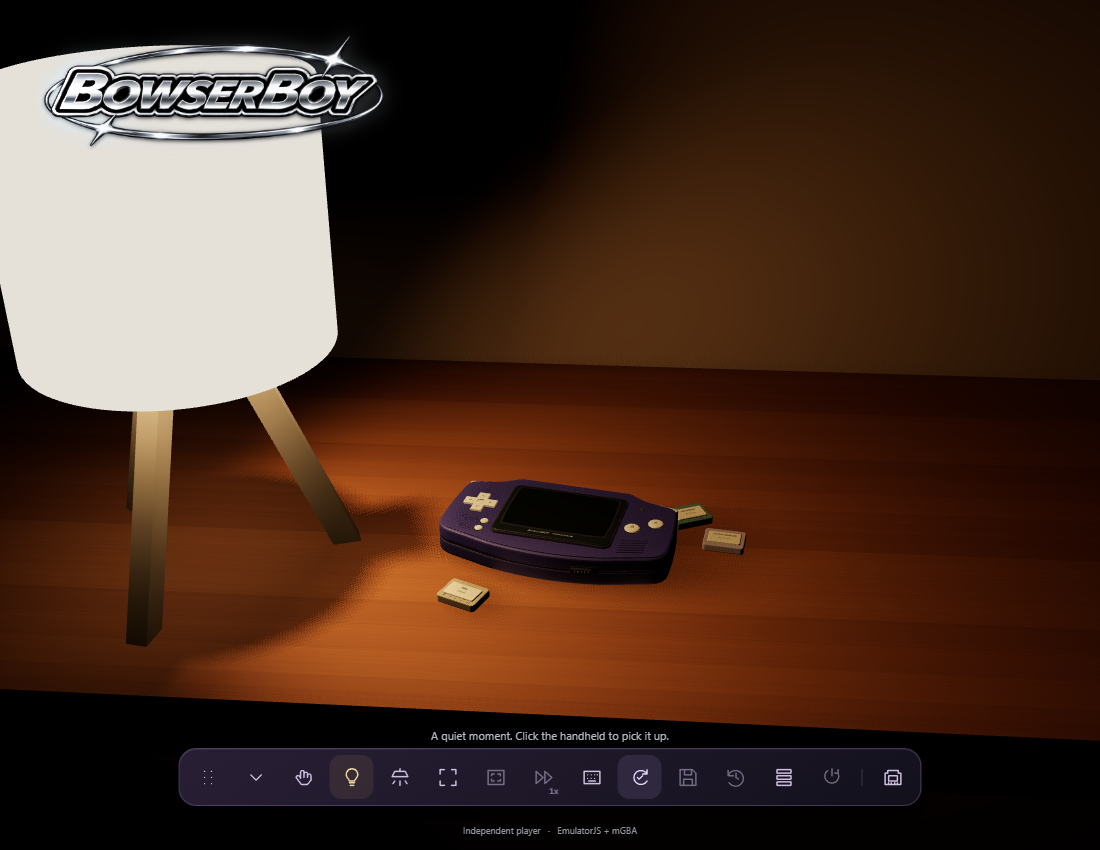
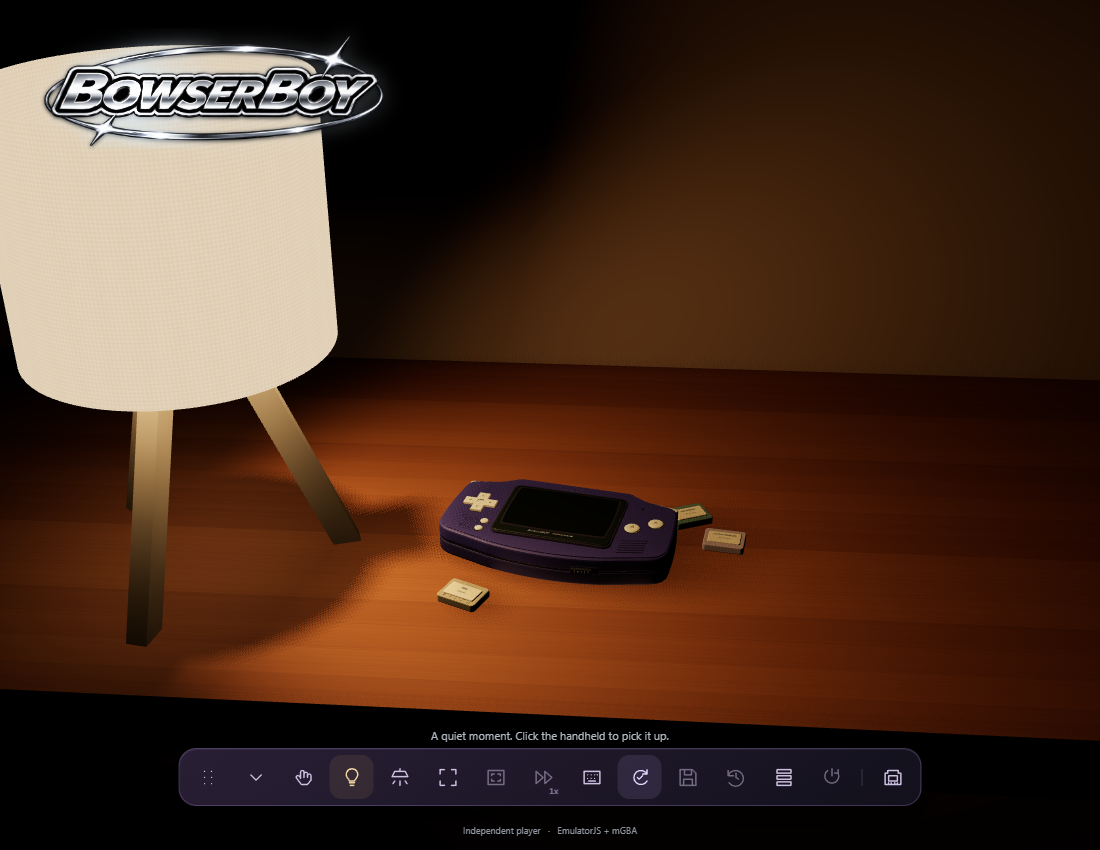
Warm woven lamp, night-safe green LED and current showcase
Refresh all eleven README GIFs and companion stills, add genuine LCD-only reflections, and isolate browser checks across nineteen shards without reducing resolution or coverage.

Copilot-Session: 8e7d69ac-78f7-4310-8b8d-14bf8681a509

Changed region(s): [[0.0, 0.0306, 0.3091, 0.4894]]

diff --git a/src/lighting.js b/src/lighting.js
@@ -50,11 +50,24 @@ export function createDeskLamp() {
   }
   mesh('Lamp shade support', new THREE.CylinderGeometry(.022, .022, .018, 24), trim,
     new THREE.Vector3(0, .162, 0));
+  const fabric = canvasTexture(1024, 256, (context, width, height) => {
+    const image = context.createImageData(width, height);
+    for (let y = 0; y < height; y++) for (let x = 0; x < width; x++) {
+      const warp = Math.cos(x * Math.PI / 2);
+      const weft = Math.cos(y * Math.PI / 2);
+      const fiber = Math.sin(x * Math.PI / 16 + Math.sin(y * Math.PI / 8) * .35);
+      const value = Math.round(237 + 6 * warp + 6 * weft + 2 * warp * weft + fiber);
+      const offset = (y * width + x) * 4;
+      image.data[offset] = image.data[offset + 1] = image.data[offset + 2] = value;
+      image.data[offset + 3] = 255;
+    }
+    context.putImageData(image, 0, 0);
+  });
   const shade = mesh('Clean white drum shade', new THREE.CylinderGeometry(.09, .09, .15, 96, 1, true),
-    new THREE.MeshStandardMaterial({ color: '#fffefa', roughness: .95,
-      emissive: '#fff0d6', emissiveIntensity: 60, side: THREE.DoubleSide }),
+    new THREE.MeshStandardMaterial({ color: '#fffefa', map: fabric, roughness: .95,
+      emissive: '#ffd6a8', emissiveMap: fabric, emissiveIntensity: 60, side: THREE.DoubleSide }),
     new THREE.Vector3(0, .225, 0));
-  // Keep the clean fabric luminous without the old brown albedo/emission speckles.
+  // Carry the neutral weave through emitted light instead of washing it out when lit.
   shade.castShadow = false;
   for (const y of [.15, .30]) {
     const rim = mesh('White shade rim', new THREE.TorusGeometry(.0895, .0005, 8, 96), shade.material,
@@ -63,7 +76,7 @@ export function createDeskLamp() {
     rim.castShadow = false;
   }
   const diffuser = mesh('Warm lamp bulb', new THREE.SphereGeometry(.018, 20, 16),
-    new THREE.MeshStandardMaterial({ color: '#fff8ec', emissive: '#fff0d6', emissiveIntensity: 80 }),
+    new THREE.MeshStandardMaterial({ color: '#fff8ec', emissive: '#ffd6a8', emissiveIntensity: 80 }),
     new THREE.Vector3(0, .215, 0));
   diffuser.castShadow = false;
   const light = new THREE.SpotLight('#ffca8a', 12 / METERS_PER_UNIT ** 2, 0, Math.PI / 3, .65, 2);

diff --git a/src/scene.js b/src/scene.js
@@ -293,9 +293,9 @@ export class HandheldScene {
   }
 
   setPower(running) {
-    this.model.led.material.color.set(running ? '#bce76f' : '#495537');
+    this.model.led.material.color.set(running ? '#186f32' : '#24382b');
     this.model.led.material.emissive.set(running ? '#00b800' : '#000000');
-    this.model.led.material.emissiveIntensity = running ? 80 : 0;
+    this.model.led.material.emissiveIntensity = running ? 80 * .018 / this.renderer.toneMappingExposure : 0;
     const power = this.model.controls.get('power').mesh;
     const x = running ? .1 : -.1;
     if (power.position.x !== x) this.changed = true;
@@ -408,6 +408,10 @@ export class HandheldScene {
       this.renderer.toneMappingExposure, exposure, 4, delta);
     const adapting = Math.abs(this.renderer.toneMappingExposure - exposure) > .00001;
     if (!adapting) this.renderer.toneMappingExposure = exposure;
+    // Keep dark-room exposure adaptation from bleaching the green indicator.
+    if (this.model.led.material.emissiveIntensity > 0) {
+      this.model.led.material.emissiveIntensity = 80 * .018 / this.renderer.toneMappingExposure;
+    }
     if (this.cartridgeMotion) {
       const fraction = THREE.MathUtils.clamp((cartridgeElapsed - 850) / 1350, 0, 1);
       const ease = fraction * fraction * (3 - 2 * fraction);

diff --git a/src/handheld.js b/src/handheld.js
@@ -598,8 +598,8 @@ export function createHandheld() {
     button.add(anchor);
     control(id, button, 1.3, .27, anchor);
   }
-  const led = add(root, 'Power light', cylinder(.09, .04),
-    new THREE.MeshStandardMaterial({ color: '#495537', emissive: '#000000', roughness: .25 }), 2.85, 1.43, .64);
+  const led = add(root, 'Power light', cylinder(.055, .04),
+    new THREE.MeshStandardMaterial({ color: '#24382b', emissive: '#000000', roughness: .55 }), 2.85, 1.43, .64);
   for (const slot of speakerSlots) {
     const floor = add(root, 'Recessed speaker grille',
       new THREE.ShapeGeometry(roundedShape(slot.width, slot.height, .03)), dark, slot.x, slot.y, .581);

diff --git a/README.md b/README.md
@@ -29,105 +29,111 @@
 
 ### One table. More to come.
 
-![Current BowserBOY table with a clean white tripod lamp, chrome website branding and movable tools](docs/images/readme-table.png?v=storsegel-20261106)
+![Current BowserBOY table with a warm woven-shade tripod lamp, chrome website branding and movable tools](docs/images/readme-table.png?v=woven-20261106)
 
 *The BowserBOY tabletop, featuring BowserBOYADVANCED.*
 
 ### Pick it up. Turn it over.
 
-![Pick up the handheld, inspect it with the animated purple console logo, and return to the chrome-branded table](docs/images/pickup-inspect.gif?v=storsegel-20261106)
+![Pick up the handheld, inspect it with the animated purple console logo, and return to the chrome-branded table](docs/images/pickup-inspect.gif?v=woven-20261106)
 
 *Soft engraved A/B letters. Metallic-chroma bezel. Purple console branding with orbiting stars while you inspect.*
 
 ### Purple belongs to the console.
 
-![Rear inspection with deeper purple console engraving and its animated purple inspection header](docs/images/readme-back.png?v=storsegel-20261106)
+![Rear inspection with deeper purple console engraving and its animated purple inspection header](docs/images/readme-back.png?v=woven-20261106)
 
 *Purple console identity. Larger lettering. Deeper engraving.*
 
 ### Press. Rock. Release.
 
-![Actual keyboard presses move A and B and rock the diagonal D-pad during play](docs/images/button-feedback.gif?v=storsegel-20261106)
+![Actual keyboard presses move A and B and rock the diagonal D-pad during play](docs/images/button-feedback.gif?v=woven-20261106)
 
 *Softer recessed A/B letters. Deeper presses. Rocking D-pad. Snappier return.*
 
 ### A closer look.
 
-![Ordinary play zoom moves from the fitted 50 percent view into 100 percent and back without fullscreen](docs/images/play-zoom.gif?v=storsegel-20261106)
+![Ordinary play zoom moves from the fitted 50 percent view into 100 percent and back without fullscreen](docs/images/play-zoom.gif?v=woven-20261106)
 
 *Same comfortable view at 50%. Move closer up to 100%. No fullscreen needed.*
 
 ### A little faster. Just while you hold.
 
-![Hold Space for native fast-forward, then release it to return to normal speed](docs/images/hold-space.gif?v=storsegel-20261106)
+![Hold Space for native fast-forward, then release it to return to normal speed](docs/images/hold-space.gif?v=woven-20261106)
 
 *Hold **Space** for 2x. Let go for 1x.*
 
 ### A clearer little message.
 
-![Current frosted power-on notice overlays the fitted handheld, with the play-mode header logo hidden](docs/images/readme-notice.png?v=storsegel-20261106)
+![Current frosted power-on notice overlays the fitted handheld, with the play-mode header logo hidden](docs/images/readme-notice.png?v=woven-20261106)
 
 *Frosted overlays. No shrinking or shifting the handheld. No header logo during play.*
 
 ### Power where it belongs.
 
-![The handheld tilted through Inspect controls to reveal its ribbed underside power slider](docs/images/readme-underside.png?v=storsegel-20261106)
+![The handheld tilted through Inspect controls to reveal its ribbed underside power slider](docs/images/readme-underside.png?v=woven-20261106)
 
 *Underside slider. Clear front face. Real power-off and cold boot.*
 
 ### Power on. Make some waves.
 
-![Current LCD startup with the purple console wordmark, complete sparkles and a spacious glowing orbit](docs/images/power-on.gif?v=storsegel-20261106)
+![Current LCD startup with the purple console wordmark, complete sparkles and a spacious glowing orbit](docs/images/power-on.gif?v=woven-20261106)
 
 *Purple console startup. Waving lettering. An 8-bit-style chime. Power remembered between visits.*
 
 ### Slot it in.
 
-![A selected local cartridge physically slides into the handheld during loading](docs/images/cartridge.gif?v=storsegel-20261106)
+![A selected local cartridge physically slides into the handheld during loading](docs/images/cartridge.gif?v=woven-20261106)
 
 *Bring your own local ROMs. Game files stay on your device.*
 
 ### Your room, your light.
 
-![The clean STORSEGEL-style white shade and ash tripod, independent room lights, and LCD-only darkness](docs/images/cozy-lights.gif?v=storsegel-20261106)
+![The warm STORSEGEL-style woven white shade and ash tripod, independent room lights, and LCD-only darkness](docs/images/cozy-lights.gif?v=woven-20261106)
 
 *A clean STORSEGEL-style shade. Warm ash legs. No visible cable. Cozy lamplight, room lights, or just the LCD.*
+
+### Wave the light.
+
+![Tilt the powered console in complete room darkness and watch the actual LCD's colored light move across the desk](docs/images/lcd-reflections.gif?v=green-led-20261106)
+
+*Lamp off. Room lights off. Just the green power LED, the game screen, and its moving pool of light.*
 
 *Audio-paced timing and a larger native reserve for steadier playback. [Audio notes and limits](docs/GUIDE.md).*
 
 ### Nine ways to glow.
 
-![Current sound and Screen shader settings with CRT Geom selected](docs/images/crt-presets.png?v=storsegel-20261106)
+![Current sound and Screen shader settings with CRT Geom selected](docs/images/crt-presets.png?v=woven-20261106)
 
 *Nine native CRT presets. CRT Geom by default. Unfiltered, too.*
 
 ### Just the game.
 
-![Actual game-screen fullscreen with the metallic-chroma bezel wordmark, dark margins and independent zoom](docs/images/screen-fullscreen.gif?v=storsegel-20261106)
+![Actual game-screen fullscreen with the metallic-chroma bezel wordmark, dark margins and independent zoom](docs/images/screen-fullscreen.gif?v=woven-20261106)
 
 *Full 3:2 picture. Dark margins. Adjustable 50-100% zoom.*
 
 ### Everything within reach.
 
-![Purple icon dock with its drag grip, collapse arrow and separate desk and LCD fullscreen controls](docs/images/readme-dock.png?v=storsegel-20261106)
+![Purple icon dock with its drag grip, collapse arrow and separate desk and LCD fullscreen controls](docs/images/readme-dock.png?v=woven-20261106)
 
 *Desk or LCD fullscreen. 1x-4x speed. Sound, lighting and settings within reach.*
 
 ### Make a little room.
 
-![Drag the tools dock, collapse it into a small movable pill, move it again, expand and reset its position](docs/images/movable-dock.gif?v=storsegel-20261106)
+![Drag the tools dock, collapse it into a small movable pill, move it again, expand and reset its position](docs/images/movable-dock.gif?v=woven-20261106)
 
 *Drag the grip. Collapse with the arrow. Move it where it suits you. Focus the grip and press Home to reset.*
 
 ### Keep your progress.
 
-![Current Progress and backups panel with an original-demo checkpoint saved](docs/images/readme-saves.png?v=storsegel-20261106)
+![Current Progress and backups panel with an original-demo checkpoint saved](docs/images/readme-saves.png?v=woven-20261106)
 
 *Local in-game saves. Autosave + three checkpoint slots. Download a `.bba-save` backup. [Saving explained](docs/SAVING.md).*
 
 ### Back to your game.
 
-![Click the blurred area outside settings to close the drawer and return to the console](docs/images/settings-backdrop.gif?v=storsegel-20261106)
+![Click the blurred area outside settings to close the drawer and return to the console](docs/images/settings-backdrop.gif?v=woven-20261106)
 
 *Click outside to close. Or use Escape. Your game keeps running.*
 

diff --git a/docs/MEDIA.md b/docs/MEDIA.md
@@ -8,6 +8,79 @@ This is the user's explicit policy for this repository, not a portfolio-wide rul
 
 ## Sources and boundaries
 
+### Smaller green indicator and LCD-only reflections, 2026-11-06
+
+This final edition supersedes both takes below. All **eleven interaction GIFs
+and nine stills** were recorded again after the smaller LED, warmer fabric
+and dark-adaptation correction. Capture: `2026-11-06T00:08:27.765Z`, parent
+checkout `aa3be83512b01874ba2f706022e768dc63842c0e`; eleven complete clips,
+zero page errors. The parent identifies the checkout, not the uncommitted
+changes or a successful deployment.
+
+The new `lcd-reflections.gif` uses real Inspect dragging with the lamp and
+room lights off and the native LCD on. Its changing picture casts faint
+moving light onto the controls, desk and cartridges. No synthetic framebuffer,
+extra light, increased LCD intensity or capture-only exposure is used.
+The first LED take exposed a real defect: existing night adaptation raises
+exposure from .018 to .45 and bleached the indicator white. Compensating only
+its emissive intensity preserves green without changing the room's exposure.
+That rejected take remains private evidence, not the current README edition.
+
+| GIF | Frames | Bytes |
+|---|---:|---:|
+| `pickup-inspect.gif` | 107 | 6,670,195 |
+| `power-on.gif` | 46 | 1,283,752 |
+| `cartridge.gif` | 27 | 1,953,355 |
+| `cozy-lights.gif` | 103 | 4,534,543 |
+| `lcd-reflections.gif` | 105 | 4,064,761 |
+| `button-feedback.gif` | 33 | 1,690,351 |
+| `play-zoom.gif` | 47 | 3,938,934 |
+| `hold-space.gif` | 38 | 1,080,342 |
+| `screen-fullscreen.gif` | 30 | 2,057,883 |
+| `settings-backdrop.gif` | 17 | 681,077 |
+| `movable-dock.gif` | 59 | 2,074,255 |
+
+Encoding retains 800x618, 10 fps, 128-color Bayer, infinite looping and the
+existing half-second trim. Every GIF animates and stays below 10 MiB.
+Bounded contact sheets, all stills and two full-size dark-room poses were
+reviewed; the night LED is visibly green and the surface illumination moves.
+This is not exhaustive playback or user aesthetic approval. Original WebM,
+timing, source hashes and final media hashes are retained privately.
+The supplied ROM remains GIF-only; static game/settings stills use original
+Pixel Lab. Both approved APNG logos and frozen v1.0.0 files are unchanged.
+
+### Warm woven shade refresh, 2026-11-06
+
+This edition supersedes the earlier plain-shade capture below. All ten
+interaction GIFs and nine stills are captured again from the warm woven-shade
+working tree, checkout baseline `aa3be83512b01874ba2f706022e768dc63842c0e`.
+That identifies the parent checkout, not the uncommitted material changes
+or a successful deployment. Receipt: `2026-11-05T23:52:39.478Z`, ten complete
+clips and zero page errors. The procedural fabric is neutral white with
+fine threads; the shade/bulb glow is warmer, without brown stains.
+
+| GIF | Frames | Bytes |
+|---|---:|---:|
+| `pickup-inspect.gif` | 109 | 6,825,951 |
+| `power-on.gif` | 44 | 1,326,241 |
+| `cartridge.gif` | 27 | 2,014,591 |
+| `cozy-lights.gif` | 125 | 4,789,224 |
+| `button-feedback.gif` | 33 | 1,105,735 |
+| `play-zoom.gif` | 48 | 2,772,116 |
+| `hold-space.gif` | 38 | 1,244,723 |
+| `screen-fullscreen.gif` | 30 | 1,272,262 |
+| `settings-backdrop.gif` | 18 | 703,503 |
+| `movable-dock.gif` | 68 | 2,600,479 |
+
+Encoding retains800x618/10fps/128-color Bayer/infinite looping and the existing
+half-second trim. All ten GIFs change and have differing decoded samples;
+all stay below10MiB. Full-size rendered table and bounded middle-frame GIF/
+still sheets are reviewed, not exhaustive playback or user acceptance.
+The approved chrome/purple APNG logos are byte-identical. Original WebM,
+timing, source hashes and per-media hashes are retained privately.
+The same supplied-ROM GIF-only authorization and original Pixel Lab/no-ROM
+static-capture boundaries remain. The frozen v1.0.0 package is not regenerated.
+
 ### Clean STORSEGEL-style lamp and complete refresh, 2026-11-06
 
 All **ten interaction GIFs and nine companion stills** are freshly captured

diff --git a/docs/VERIFICATION.md b/docs/VERIFICATION.md
@@ -7,6 +7,53 @@ The [engineering book](../book/README.md) explains the mechanisms and failure
 lessons. Its source edition and local preview media do not replace this release
 record or constitute fresh execution of historical tests.
 
+## Smaller green LED and current eleven-GIF showcase, 2026-11-06
+
+The indicator radius is reduced from .09 to .055, with deeper green albedo
+and a less glossy lens. A real dark-room recording revealed the initial
+material change was insufficient: night adaptation increases exposure
+from .018 to .45 and bleached the green emission white. Its emissive intensity
+now compensates for that existing exposure; room exposure, LCD illumination,
+render resolution and power-off behavior are unchanged.
+
+Rendered green-dominance checks cover room-plus-lamp, lamp-only and fully
+dark-adapted Inspect, alongside the retained real native-input, LCD-spill,
+light direction and power-off checks. The lamp/native pair passes locally
+in 35.9 seconds; the final actual dark-Inspect/native case passes in 24.3
+seconds, with all twelve unit tests also passing.
+All eleven GIFs and nine stills are freshly captured after the correction;
+the new LCD-only clip uses actual room/lamp-off state and genuine dragging.
+Bounded media review confirms a green night indicator and moving faint
+surface light. See [media provenance](MEDIA.md) for the final receipt.
+Hosted and public qualification remain separate.
+
+## Warmer woven shade and nineteen-way CI, 2026-11-06
+
+The shade now has a neutral white procedural fabric weave in both its color
+and emission maps, with warmer cream shade/bulb emission. The texture is
+periodic, low-contrast and grayscale, not the rejected brown mottling.
+Actual full-size table capture is reviewed: the threads remain visible while
+lit and the ash tripod stays visible. Existing bright-ivory/no-diagonal-seam
+bounds remain; additional checks cover clean weave contrast and rendered warmth.
+The lamp case passes in16.2s; the other four affected physical-lamp,
+full-resolution, pressed-cap and native/LCD cases pass in57.5s.
+
+The preceding corrected-header run42130747520 passes nine of ten browser
+shards, but the fullscreen-return case reaches its unchanged120s deadline.
+Its trace shows repeated6-8s full-resolution frame reads. Reuse the already
+verified returned-LCD sample and let that image read also witness the second
+advancing room paint. Both Escape/button paths, native-runtime identity,
+actual LCD changes and left/right input checks remain. The corrected case
+passes locally in16.8s. No low-resolution fallback or longer deadline is used.
+
+The matrix increases from ten to nineteen independent one-worker jobs,
+leaving one slot for build within the documented20-job Free-plan baseline.
+CLI discovery proves all53 cases occur exactly once: fifteen three-case
+shards and four two-case shards. YAML semantic comparison confirms the
+matrix is the only workflow change; all deployment dependencies, retries,
+deadlines and failure artifacts remain. This is increased parallelism,
+not a measured hosted speedup. Actual pushed-run/public qualification is pending.
+
 ## Published README and header-check recovery, 2026-11-06
 
 The owner pushes commit `64497155124b8ebb9a51651a9d1a9c1b1633f235`.
@@ -333,7 +380,7 @@ The YAML parses; a semantic comparison confirms the only workflow changes are
 the container and replaced installer. Actual Linux-container qualification
 still requires the next normal gate; no local Docker execution is claimed.
 
-At the user's request for faster parallel CI, ten isolated browser jobs now
+At the user's earlier request for faster parallel CI, ten isolated browser jobs
 replace five. Each still runs one worker: native audio/frame-clock assertions
 must not compete with another WebGL/emulator test on the same runner. CLI
 discovery verifies all 53 cases exactly once, distributed

diff --git a/docs/ARCHITECTURE.md b/docs/ARCHITECTURE.md
@@ -338,13 +338,22 @@ delay, invented percentage or looping reinsertion during a long download.
 
 ### Dark room and screen-colored illumination
 
+The .055-radius power indicator uses a darker green lens with reduced gloss.
+Its pure-green emission compensates for the existing .018-to-.45 night
+exposure adaptation, preventing white clipping in dark Inspect. Only the LED
+emission changes; room exposure, native LCD lighting and renderer resolution
+are preserved. Power off still sets its emission to zero.
+
 `src/lighting.js` models a STORSEGEL-style open white drum shade, thin white
 rims and three splayed ash legs with flat tabletop feet. The geometry is
 authored in meters: approximately 30 cm overall height and an 18 cm shade
 diameter. One scene unit represents 0.017 meters, so the lamp body applies the
 inverse of that conversion. The camera and handheld geometry/scale are
-unchanged. The shade has no mottled color/emission texture; a subtle procedural
-grain belongs only to the wooden legs. No cable is modeled.
+unchanged. A neutral white procedural weave textures both reflected and emitted
+shade color, so switching the lamp on does not wash the fabric flat. Its
+periodic threads have no brown speckles or low-frequency dirty patches.
+Shade and bulb emission use a warmer cream tint; wooden legs retain their
+separate subtle grain. No cable is modeled.
 A broad warm downward spotlight uses
 inverse-square falloff, no arbitrary distance cutoff and one 1024-square
 shadow map. This replaces the six expensive cubemap passes of the intermediate
@@ -795,10 +804,14 @@ Only `three.module.js`, its relative `three.core.js` dependency, the unmodified
 the exact MIT license are mapped from the pinned package to public `vendor` paths.
 An import map resolves `three` relative to the document, preserving nested
 GitHub Pages hosting. No `node_modules` directory is publicly served.
-Pages deployment requires the separate syntax/unit/build job and all ten
+Pages deployment requires the separate syntax/unit/build job and all nineteen
 complete test-level browser shards on Ubuntu 24.04, with one worker per runner.
-The 53 cases run exactly once, with five or six cases per runner. Parallelism
+The 53 cases run exactly once, with two or three cases per runner. Parallelism
 is across isolated runners, not competing software-rendered games on one CPU.
+Nineteen browser jobs plus the independent build fit the documented
+[20-job GitHub Free concurrency baseline](https://docs.github.com/en/actions/reference/limits).
+This is a scheduling budget, not proof of the owner's plan or available slots:
+other workflows, provisioning and external services can still cause queues.
 The shard denominator comes from `strategy.job-total`, keeping it synchronized
 with the current single-axis shard matrix.
 Browser jobs use the official Playwright 1.64.1 Noble image pinned by manifest

diff --git a/book/chapters/05-pixels-and-light/README.md b/book/chapters/05-pixels-and-light/README.md
@@ -58,6 +58,13 @@ The paper lantern and room lights are independent scene systems. The lantern's
 spot, transmitted area light and finite tabletop bounce approximate a warm
 physical source. They are intentionally not a promise of unbiased path tracing.
 
+**Fabric refinement, November 6, 2026.** The current shade uses a subtle
+neutral white weave in both color and emission maps. Mapping emission matters:
+an untextured luminous term can otherwise wash out the reflected fabric detail.
+A warmer cream emission changes the glow, not the clean fabric into brown
+stains. Actual rendered warmth, brightness and the existing no-seam bounds
+are checked without reducing renderer resolution.
+
 **Living implementation note, November 6, 2026.** The first-edition lantern
 above is replaced by a clean STORSEGEL-style white drum shade and ash tripod.
 An exterior transmitted-light plane avoids a hard seam on the fabric; soft
